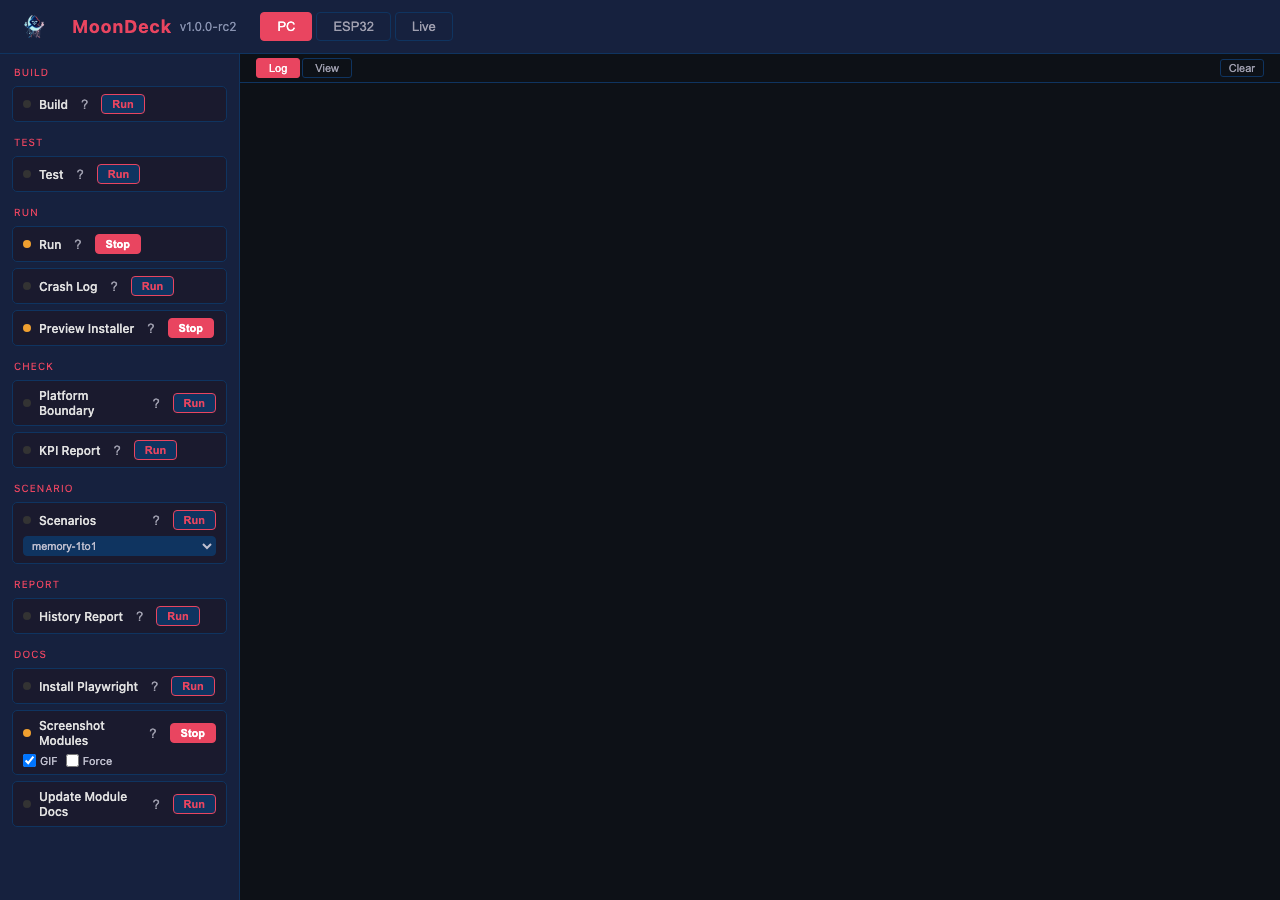
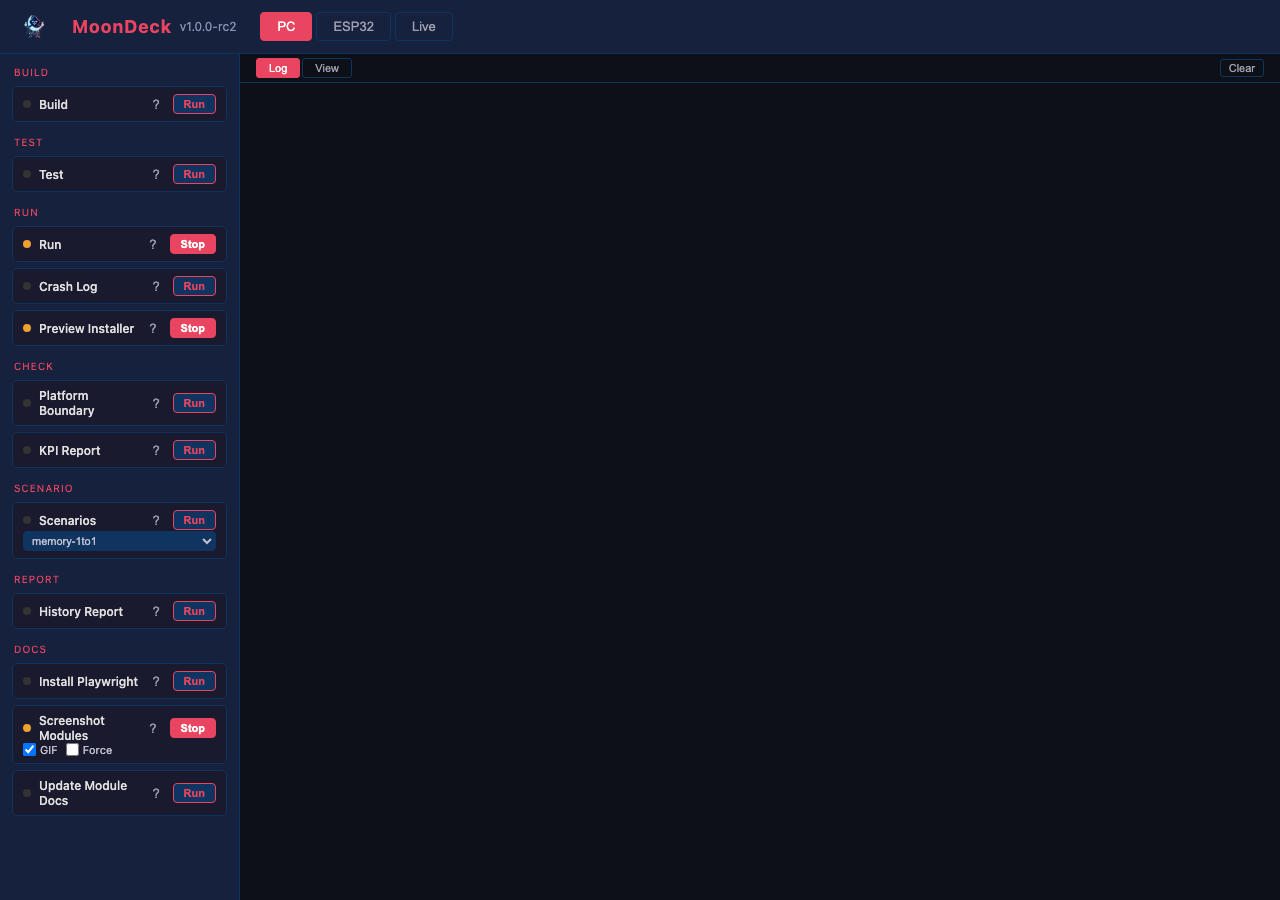
Fix testing.md anchor links + MoonDeck Run button alignment
All testing.md section headings renamed to plain anchor IDs (e.g. `### noise`
instead of `### Noise Effect (...) {#noise}`) so GitHub auto-slugs match the
`testing.md#noise` links used in module docs. Recaptured MoonDeck tab
screenshots after `?tab=` URL fix. Aligned Run button to right edge of script
cards.

- Docs / CI:
  - testing.md: rewrite all 25 section headings to self-slugifying anchor IDs; move filename references to heading body
- Scripts / MoonDeck:
  - style.css: add `width: 100%` to `.card-row` so label's `flex:1` pushes Run button to right edge
  - moondeck_pc.png, moondeck_esp32.png, moondeck_live.png: recaptured after ?tab= URL fix

diff --git a/scripts/moondeck_ui/style.css b/scripts/moondeck_ui/style.css
@@ -132,9 +132,6 @@ select {
     border: 1px solid #0f3460;
     border-radius: 5px;
     padding: 7px 10px;
-    display: flex;
-    align-items: center;
-    gap: 8px;
 }
 .script-card--has-select {
     flex-direction: column;
@@ -145,6 +142,7 @@ select {
     display: flex;
     align-items: center;
     gap: 8px;
+    width: 100%;
 }
 
 .status-dot {